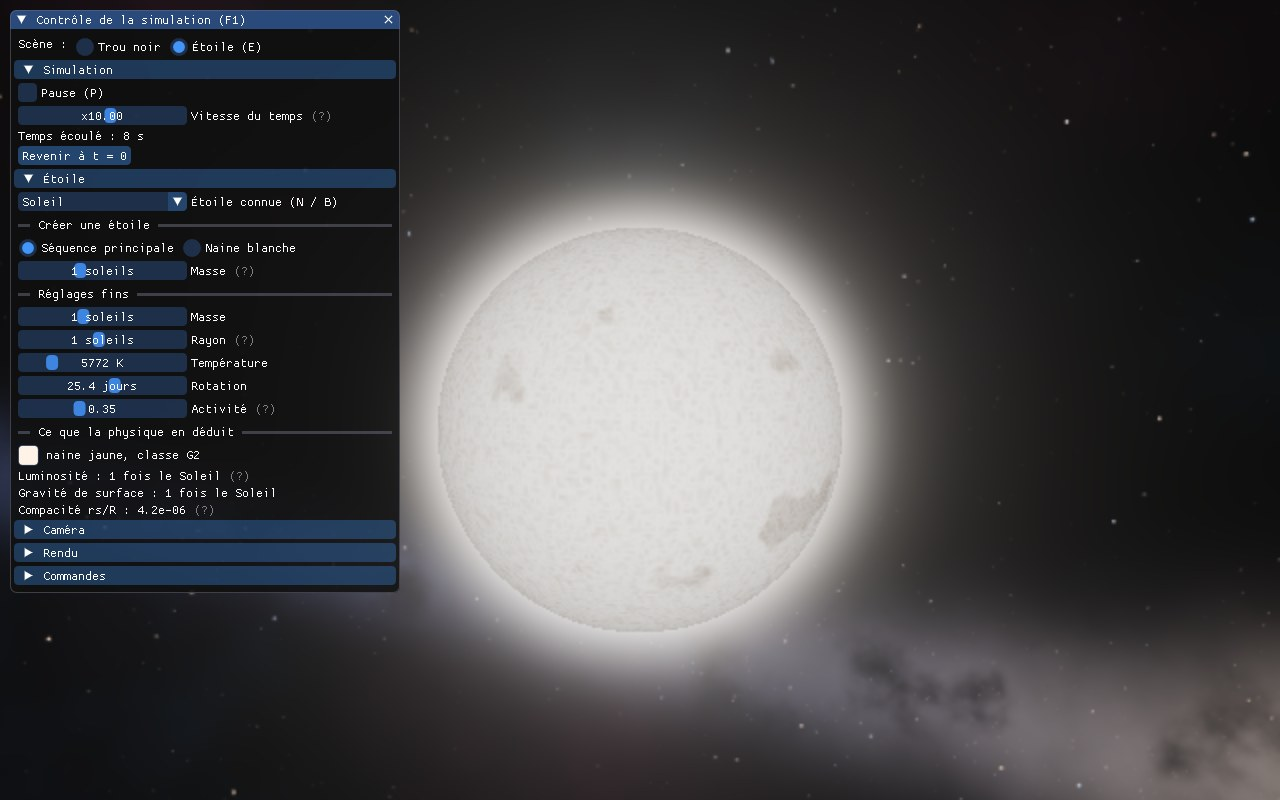
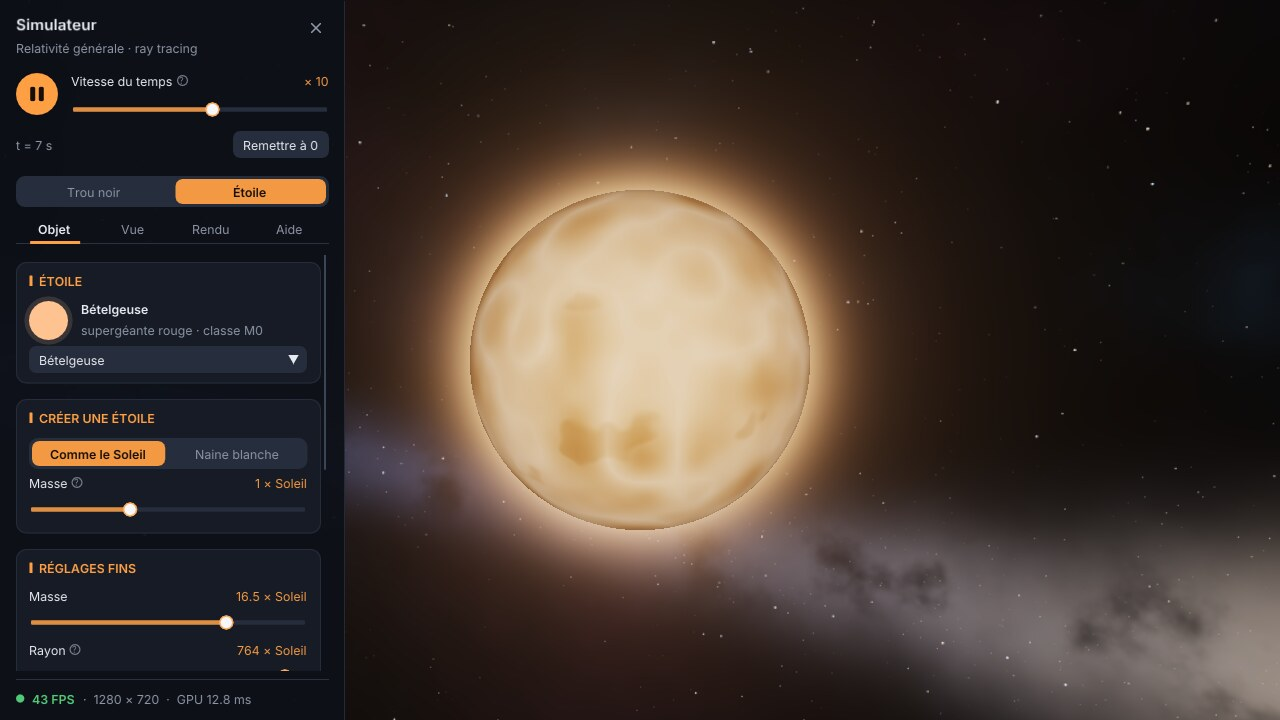
Étoiles 2,5x plus rapides ; README et captures du nouveau panneau
star.frag : quand rs/R < 0,001 (toutes les étoiles sauf l'étoile à
neutrons), la lumière est déviée de moins de 0,1° ; on remplace
l'intégration RK4 par l'intersection exacte droite / sphère. Sur
llvmpipe à 640x360 : Soleil 24 -> 9,5 ms, Bételgeuse 22 -> 10,7 ms,
images identiques (PSNR 48-52 dB). L'étoile à neutrons garde le RK4.

Claude-Session: https://claude.ai/code/session_01LaxgftVJgbjCibxQBFHJZC

diff --git a/blackhole/README.md b/blackhole/README.md
@@ -175,31 +175,40 @@ cmake --build build --config Release
 
 ## Panneau de contrôle
 
-Un panneau (Dear ImGui) s'affiche en haut à gauche ; `F1` ou `Tab` le cache.
-Il règle sans raccourci clavier :
+Un panneau (Dear ImGui, police Inter) occupe le bord gauche ; `F1`, `Tab`
+ou la croix le cachent, et la pastille qui reste en haut à gauche le rouvre.
 
 ![panneau de contrôle](docs/panneau.jpg)
 ![panneau en mode étoile](docs/panneau-etoile.jpg)
 
+De haut en bas :
 
-- **Simulation** : pause, vitesse du temps, retour à t = 0.
-- **Trou noir** : masse en masses solaires. L'image ne change pas (tout est
-  calculé en rs), mais le panneau convertit en vraies grandeurs : taille de
-  l'horizon, de la sphère de photons, de la dernière orbite stable, durée
-  d'un tour, temps écoulé.
-- **Disque d'accrétion** : rayons intérieur et extérieur, température
-  maximale, luminosité, nombre d'amas chauds, et on peut couper l'effet
-  Doppler ou le décalage gravitationnel pour voir leur rôle.
+- **Lecture / pause** et **vitesse du temps**, toujours visibles, avec le
+  temps écoulé (en rs/c et en temps réel pour la masse choisie).
 - **Scène** : trou noir ou étoile (`E`).
-- **Étoile** : choix d'une étoile connue (Soleil, Proxima du Centaure,
-  Sirius A et B, Rigel, Bételgeuse, Aldébaran, étoile à neutrons), création
-  d'une étoile de la séquence principale ou d'une naine blanche à partir de
-  sa masse, réglage libre de la masse, du rayon, de la température, de la
-  rotation et de l'activité. Le panneau affiche ce que la physique en déduit :
-  couleur, type et classe spectrale, luminosité, gravité, compacité rs/R.
-- **Caméra** : distance, angles, champ de vision, orbite automatique.
-- **Rendu** : FPS et temps GPU, résolution (auto ou fixe), FPS visé, pas
-  max par rayon, exposition, rechargement des shaders.
+- **Onglet Objet** :
+  - trou noir : masse en masses solaires. L'image ne change pas (tout est
+    calculé en rs), mais le panneau donne les vraies grandeurs : horizon,
+    sphère de photons, dernière orbite stable, durée d'un tour ;
+  - disque d'accrétion : bords intérieur et extérieur, température,
+    luminosité, amas chauds, et interrupteurs pour couper l'effet Doppler ou
+    le décalage gravitationnel ;
+  - étoile : étoile connue (Soleil, Proxima du Centaure, Sirius A et B,
+    Rigel, Bételgeuse, Aldébaran, étoile à neutrons), création d'une étoile
+    comme le Soleil ou d'une naine blanche à partir de sa masse, réglages
+    fins, et ce que la physique en déduit (luminosité, gravité, compacité).
+- **Onglet Vue** : distance, angles, champ de vision, orbite automatique.
+- **Onglet Rendu** : résolution (auto ou fixe), FPS visé, pas max par rayon,
+  mesures, exposition, rechargement des shaders.
+- **Onglet Aide** : souris et raccourcis clavier.
+- **Ligne d'état** : FPS (vert, orange ou rouge selon l'objectif),
+  résolution du calcul, temps GPU.
+
+Chaque réglage a une bulle d'aide (le petit `?`) ; `Ctrl + clic` sur un
+curseur permet de taper une valeur.
+
+Pour ajouter une section au panneau depuis un autre fichier, voir l'exemple
+en tête de `src/ui_kit.hpp` (macros `UI_SECTION` et `UI_SCENE`).
 
 Quand la souris est sur le panneau, elle ne fait pas tourner la caméra.
 
